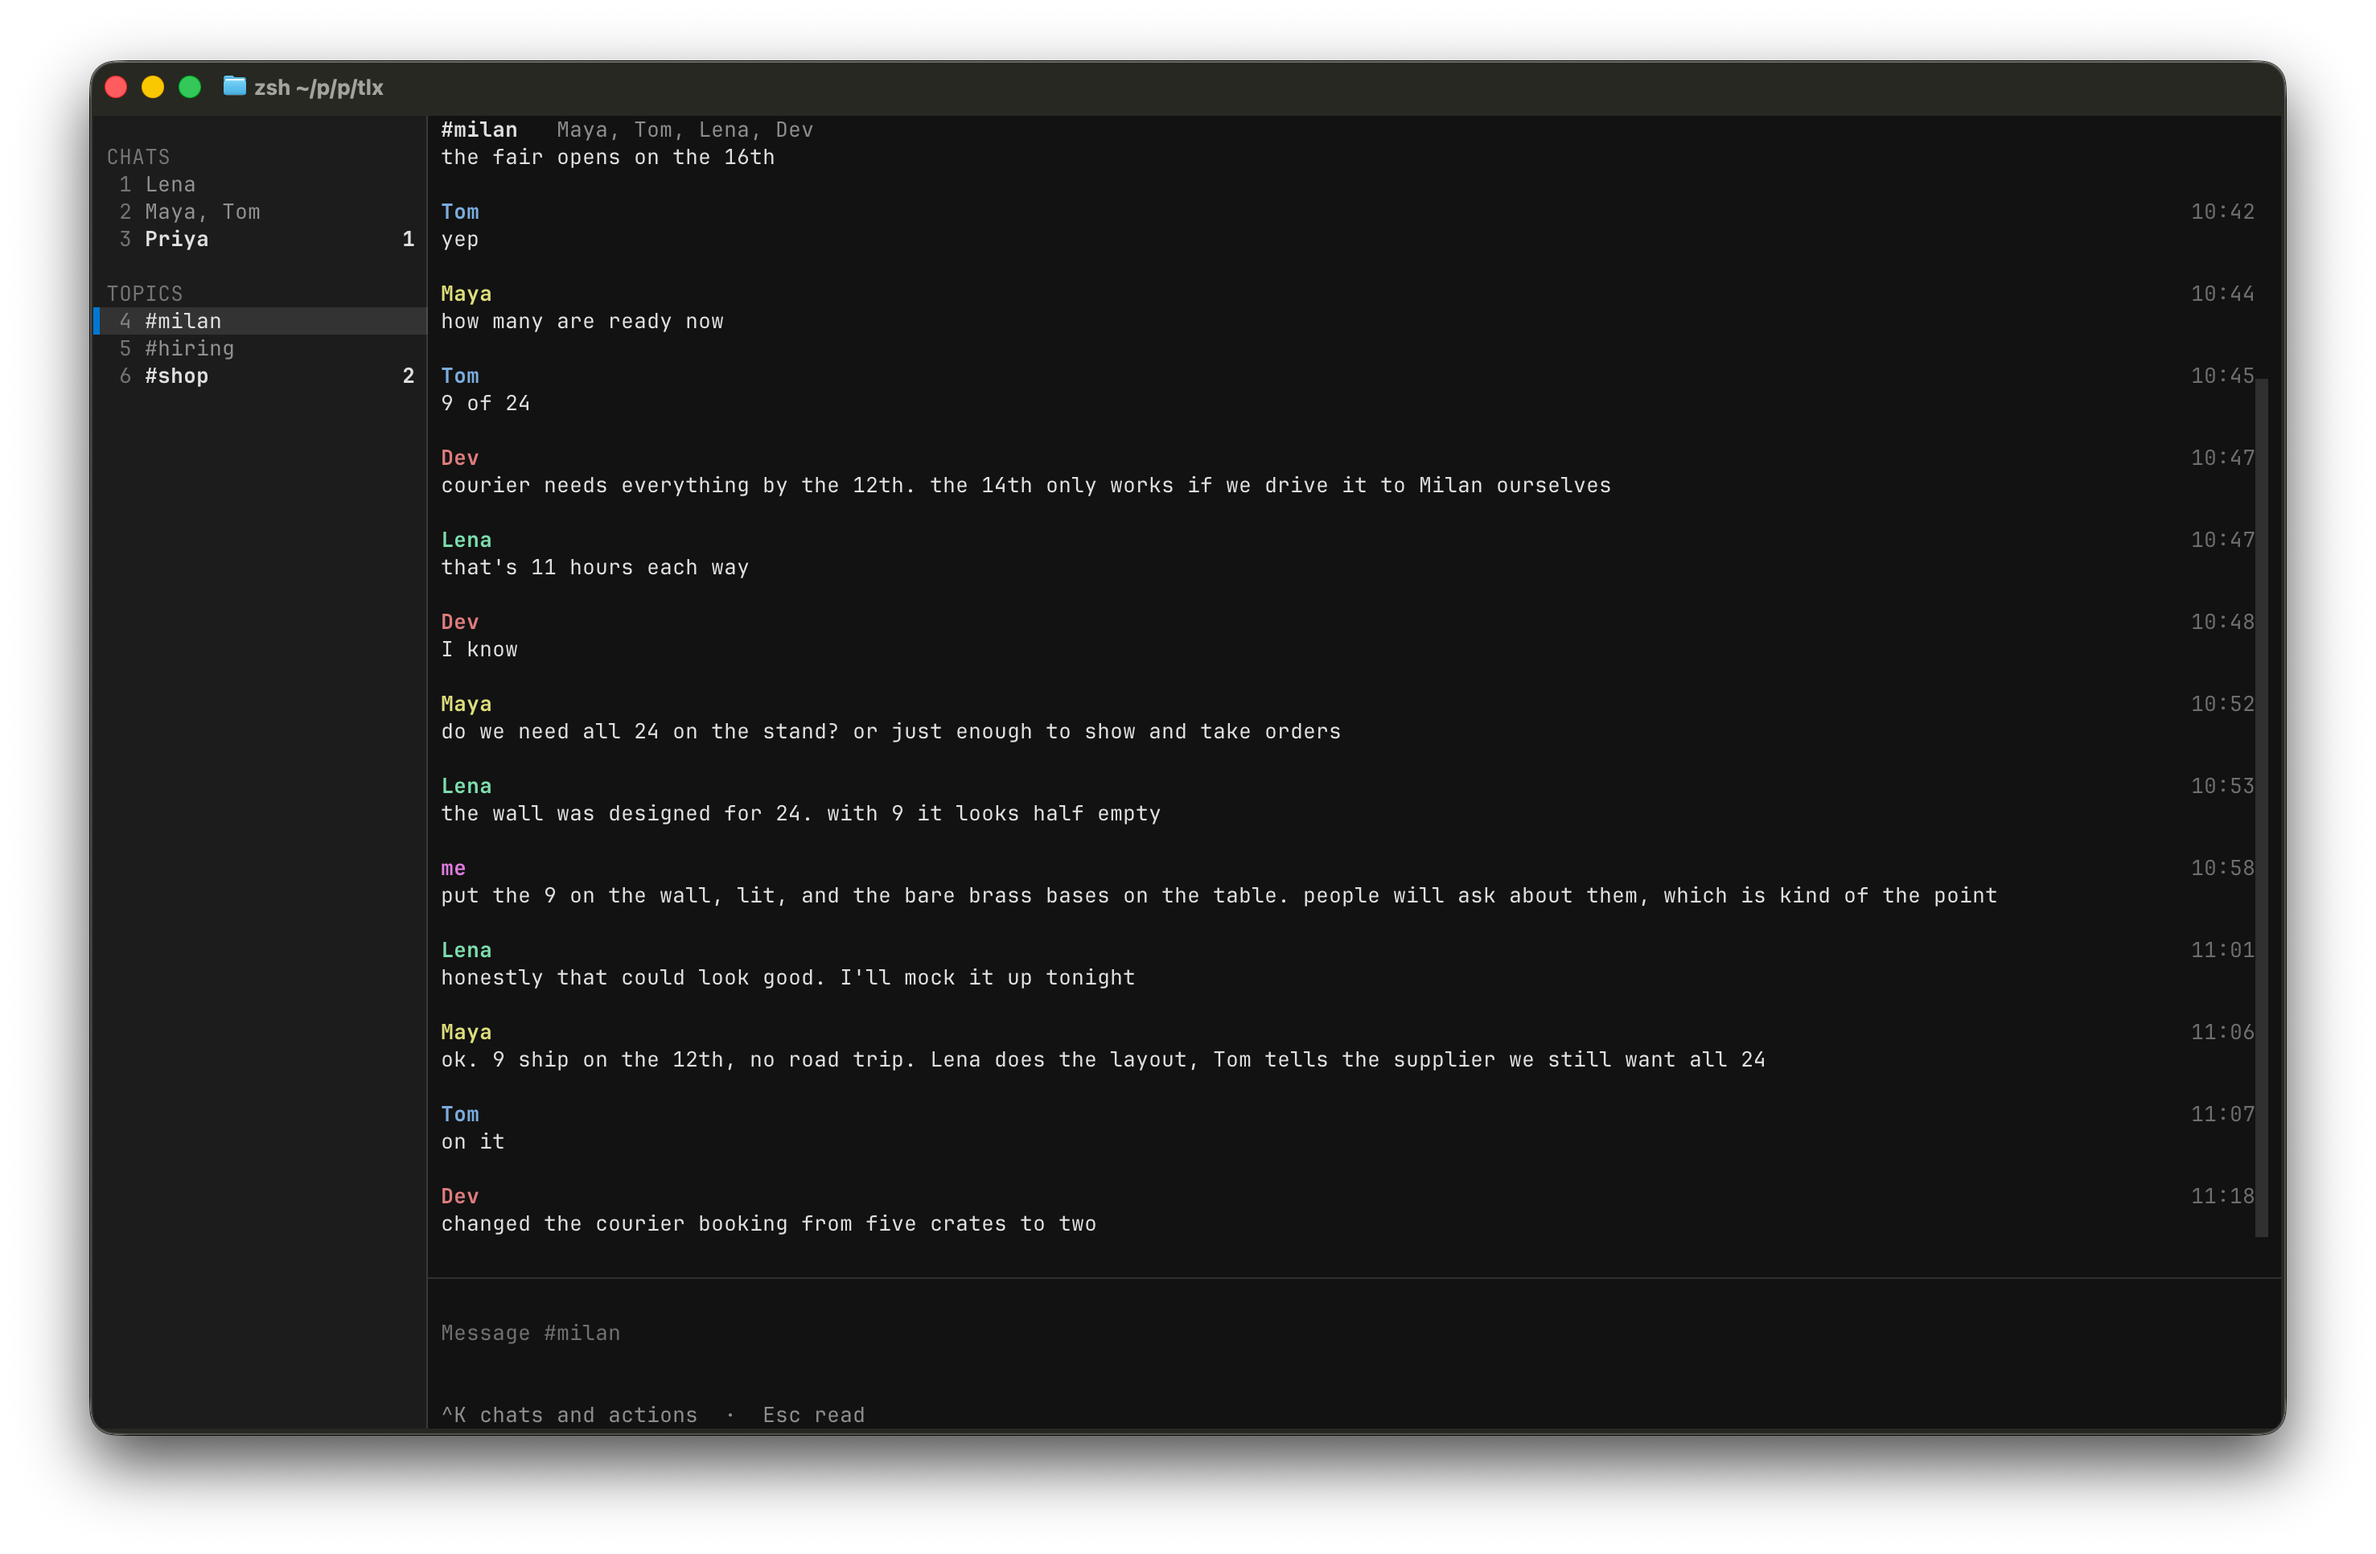
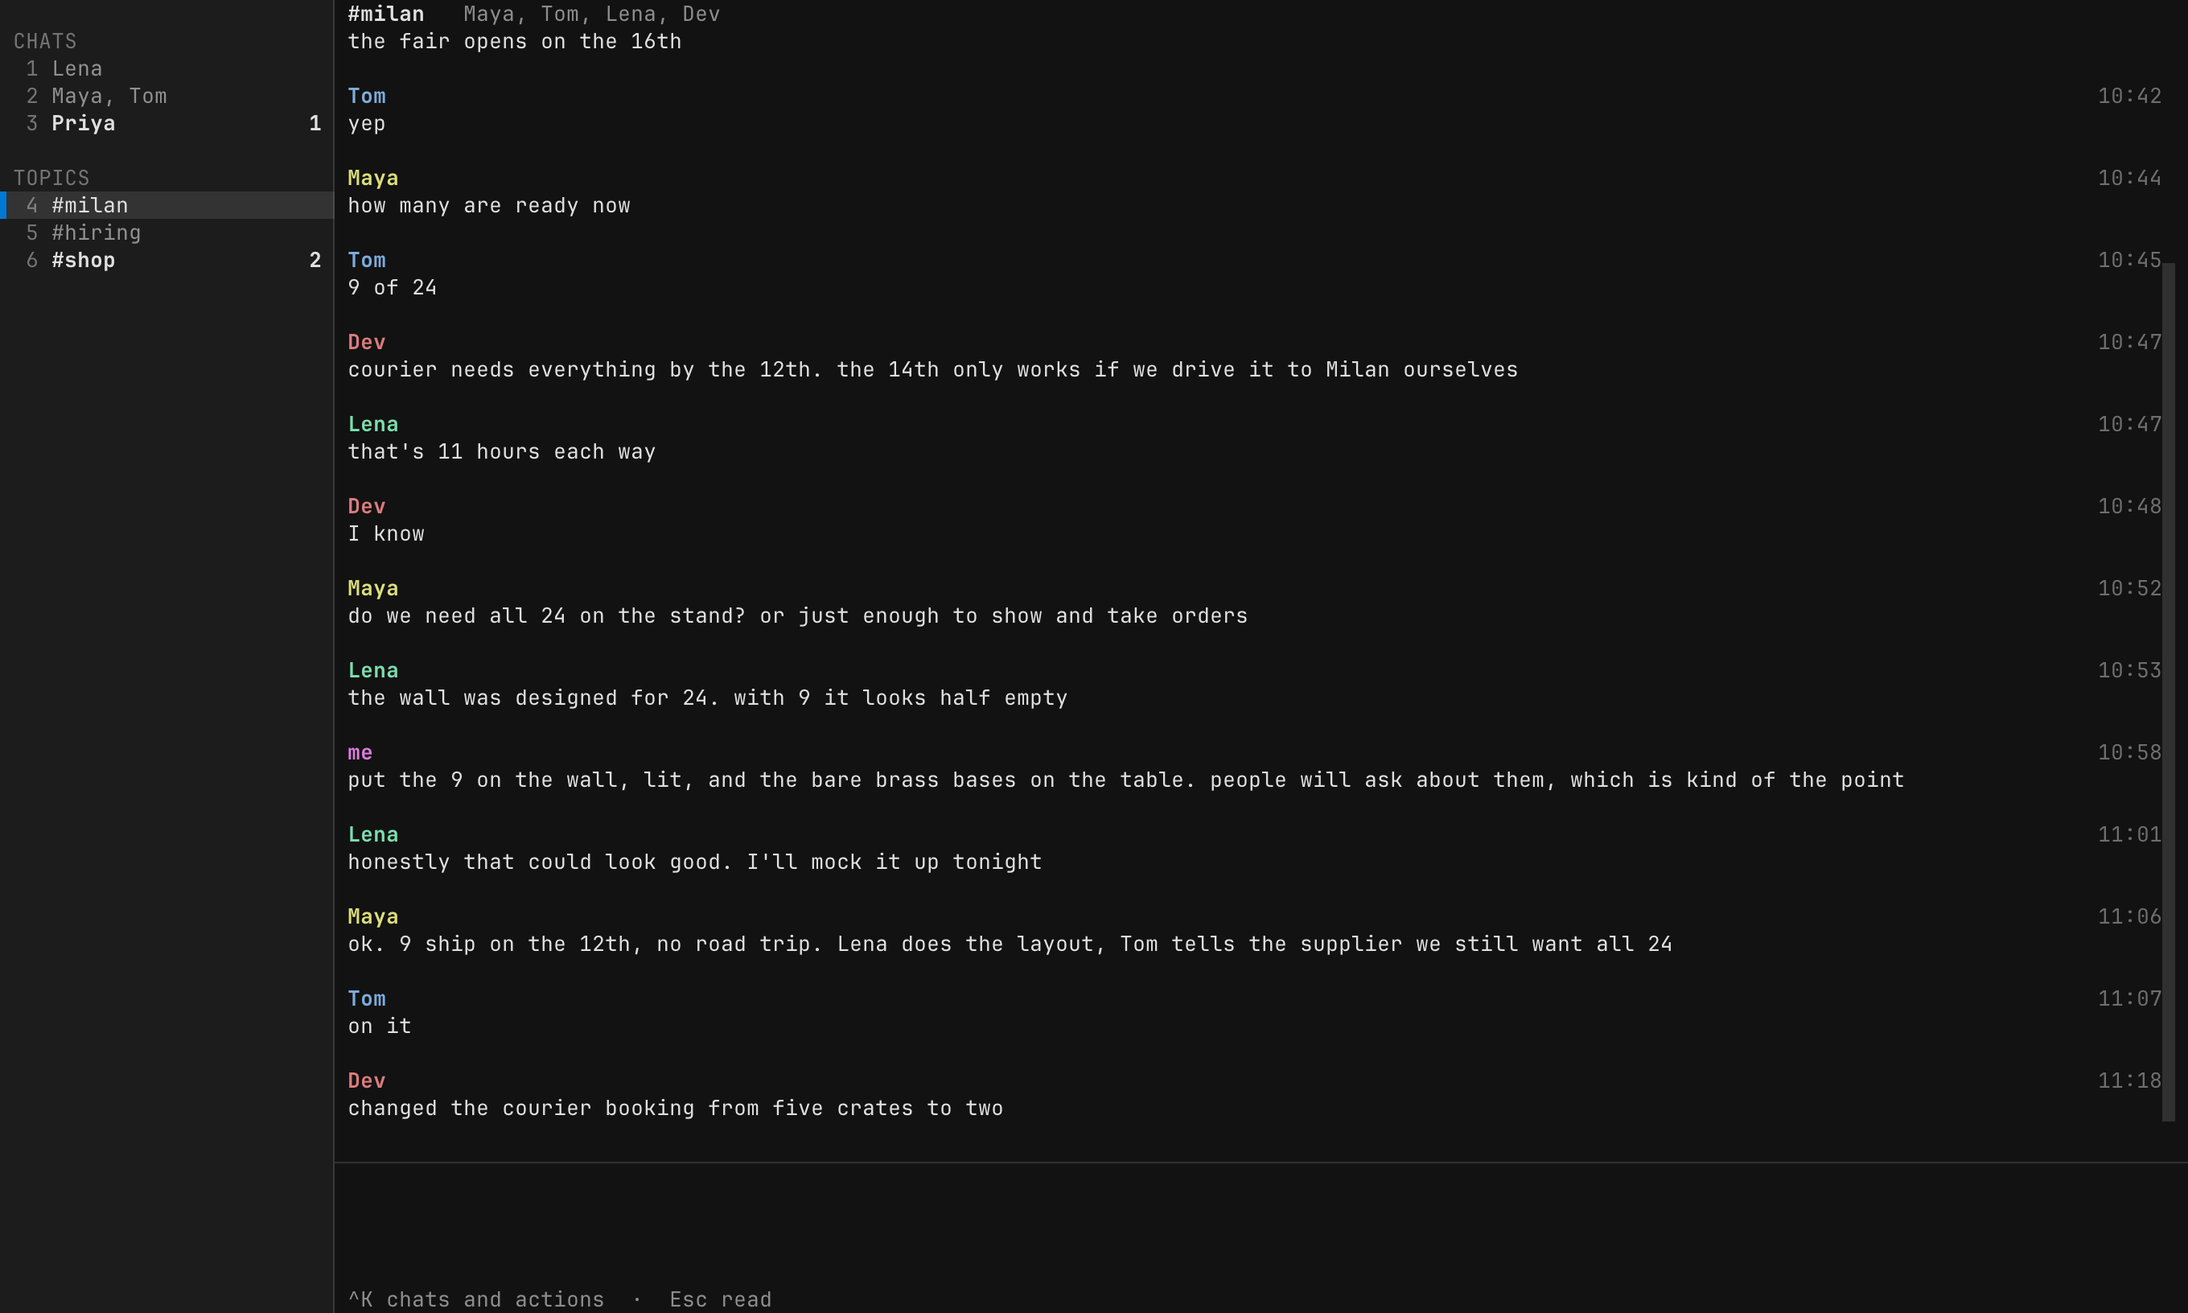
Fix dark borders and update screenshots

diff --git a/tui.py b/tui.py
@@ -199,7 +199,7 @@ HUES = 12   # about as many as a reader can tell apart in a name; more would onl
 def color_of(public_key, light_theme=False):
     """One of 12 hues spaced around the wheel, always the same for a key, lit for the theme's background."""
     hue = hashlib.sha256(public_key.encode()).digest()[0] % HUES / HUES
-    return Color.from_hsl(hue, 0.6, 0.42 if light_theme else 0.68).hex
+    return Color.from_hsl(hue, 0.6, 0.30 if light_theme else 0.68).hex
 
 
 def fingerprint(public_key):
@@ -737,11 +737,15 @@ class TlxApp(App):
     #chats > .option-list--option-highlighted { background: $foreground 12%; color: $foreground; }
     #chats > .option-list--option-hover { background: $foreground 8%; }
     #gutter { background: $background; background-tint: $foreground 5%; }
+    .-light-mode #chats, .-light-mode #gutter { background: $surface; background-tint: transparent; }
+    .-light-mode #gutter { color: $panel; }
     #header { height: 1; padding: 0 1; }
     #log { height: 1fr; padding: 0 1; }
     #composer { height: auto; max-height: 11; margin-top: 1; padding: 1 1; border: none;
                 border-top: solid $foreground 15%; background: transparent; }
     #composer:focus { border-top: solid $primary 50%; }
+    .-light-mode #composer { border-top: solid $panel; }
+    .-light-mode #composer:focus { border-top: solid $primary 50%; }
     #status { height: 1; padding: 0 1; color: $foreground-muted; text-wrap: nowrap; text-overflow: ellipsis; }
     #log, #composer, Switcher OptionList { scrollbar-gutter: stable; }
     #log, #composer, #chats, Switcher OptionList {
@@ -761,6 +765,8 @@ class TlxApp(App):
 
     def __init__(self, store, daemon=None):
         super().__init__()
+        self.register_theme(replace(self.get_theme("textual-light"), background="#FFFFFF", foreground="#1D1C1D",
+                                    surface="#F7F7F8", panel="#E5E5EA"))
         self.store = store
         self.daemon = daemon
         self.daemon_stopped = False

diff --git a/tests/tui_test.py b/tests/tui_test.py
@@ -20,7 +20,7 @@ PLAIN, TOPIC = "@plain", "launch@topic"
 
 
 def texts(app, selector="MessageRow"):
-    return [widget.query_one(".body").content.plain for widget in app.query(selector)]
+    return [widget.content.plain for widget in app.query(f"{selector} > .body")]
 
 
 async def wait_for(pilot, condition, description, timeout=30):

diff --git a/README.md b/README.md
@@ -21,7 +21,9 @@ Build anything on top: a TUI, a desktop app, a bot, a script.
   <img src="screenshots/tui-light.png" alt="tlx TUI showing chats and a topic conversation" width="100%">
 </picture>
 
-[Light](screenshots/tui-light.png) · [Dark](screenshots/tui-dark.png)
+<p align="center">
+  <a href="screenshots/tui-light.png">Light</a> · <a href="screenshots/tui-dark.png">Dark</a>
+</p>
 
 ## Quickstart
 
@@ -251,3 +253,7 @@ python3 tests/tui_test.py RelayTests
 
 Each case starts fresh. To run one case, append its class and method, such as
 `python3 tests/e2e.py MessagingTests.test_connection_retry_and_offline_catchup`.
+
+## Sponsored by
+
+[Tecotype](https://tecotype.com?utm_source=tlx), keyboard-first mail app.
